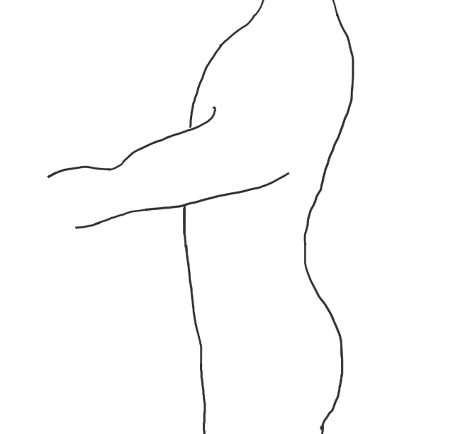
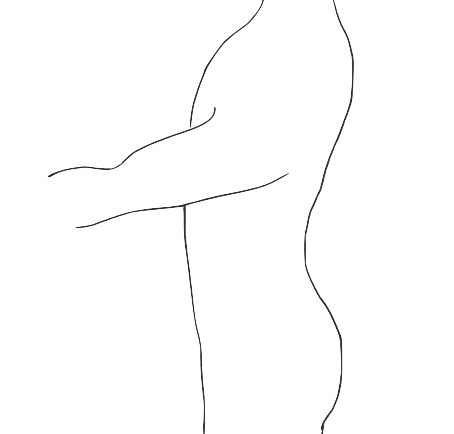
removed background

diff --git a/src/components/TakePhoto.js b/src/components/TakePhoto.js
@@ -29,7 +29,7 @@ const TakePhoto = ({ navigation, nextScreen, name, comments, id, bodyPart }) => 
         "Plantar Surface Left Foot Back": require("../../assets/ghost/back/left_foot.png"),
         "Plantar Surface Right Foot Back": require("../../assets/ghost/back/right_foot.png"),
         "Left Head or Neck Left": require("../../assets/ghost/left/head.png"),
-        "Left Torso Left": require("../../assets/ghost/left/torso.png"),
+        "Left Torso Left": require("../../assets/ghost/left/torso2.png"),
         "Left Legs Left": require("../../assets/ghost/left/legs.png"),
         "Right Head or Neck Right": require("../../assets/ghost/right/head.png"),
         "Right Torso Right": require("../../assets/ghost/right/torso2.png"),
